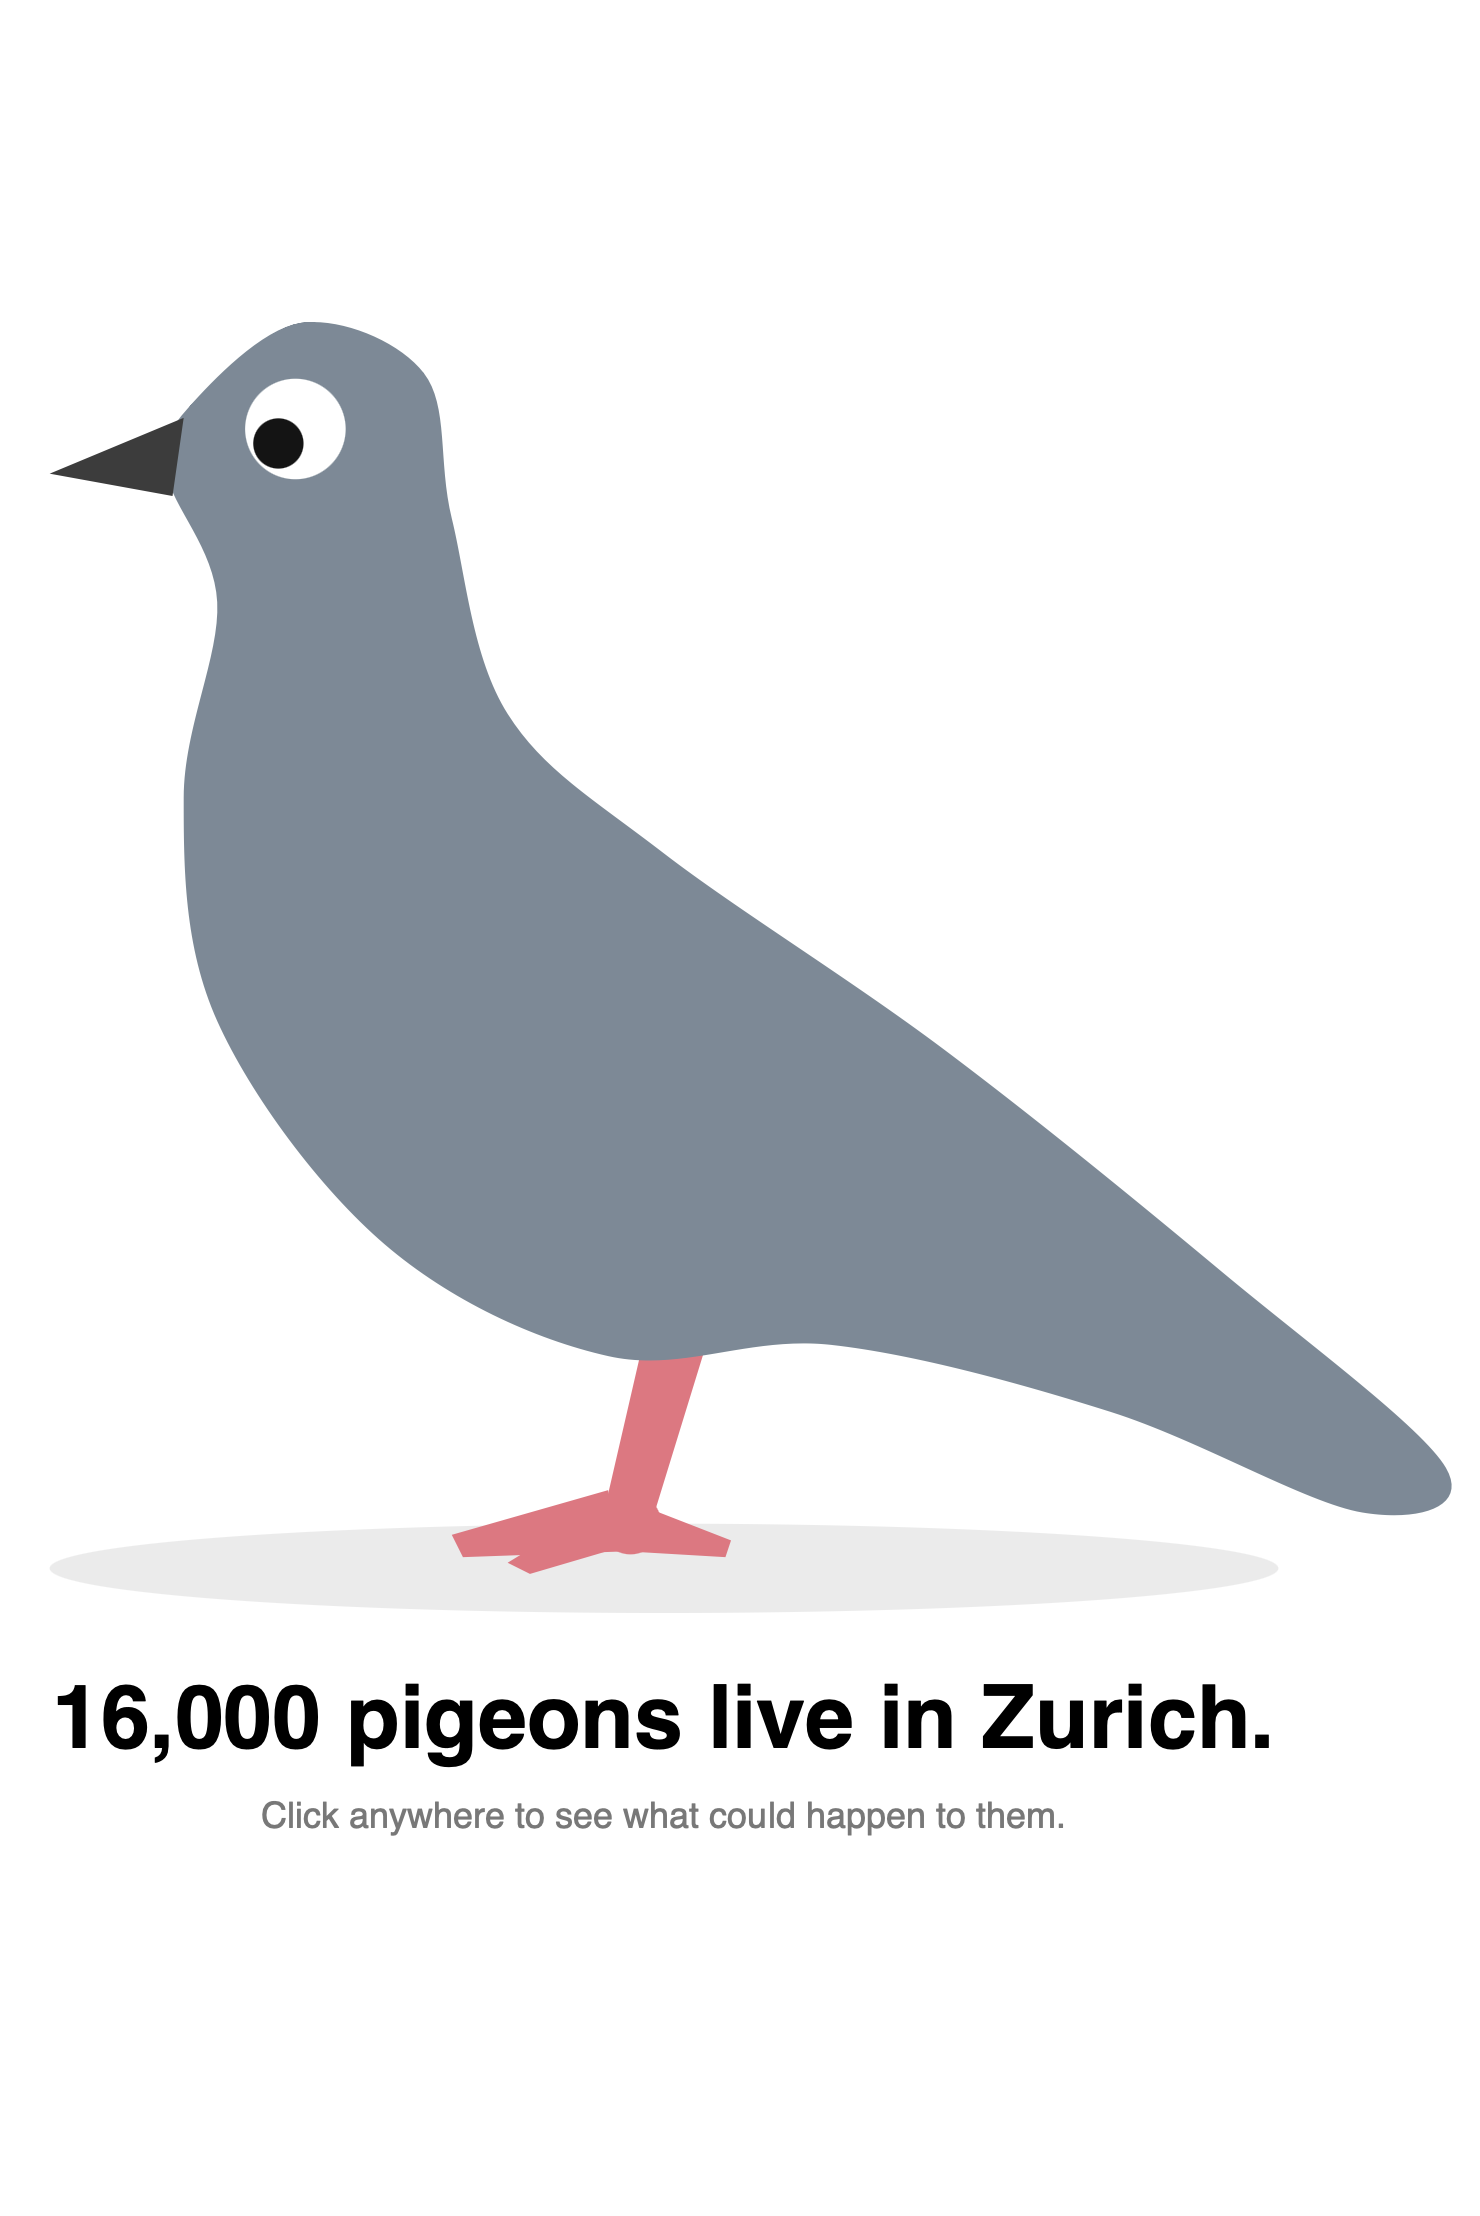
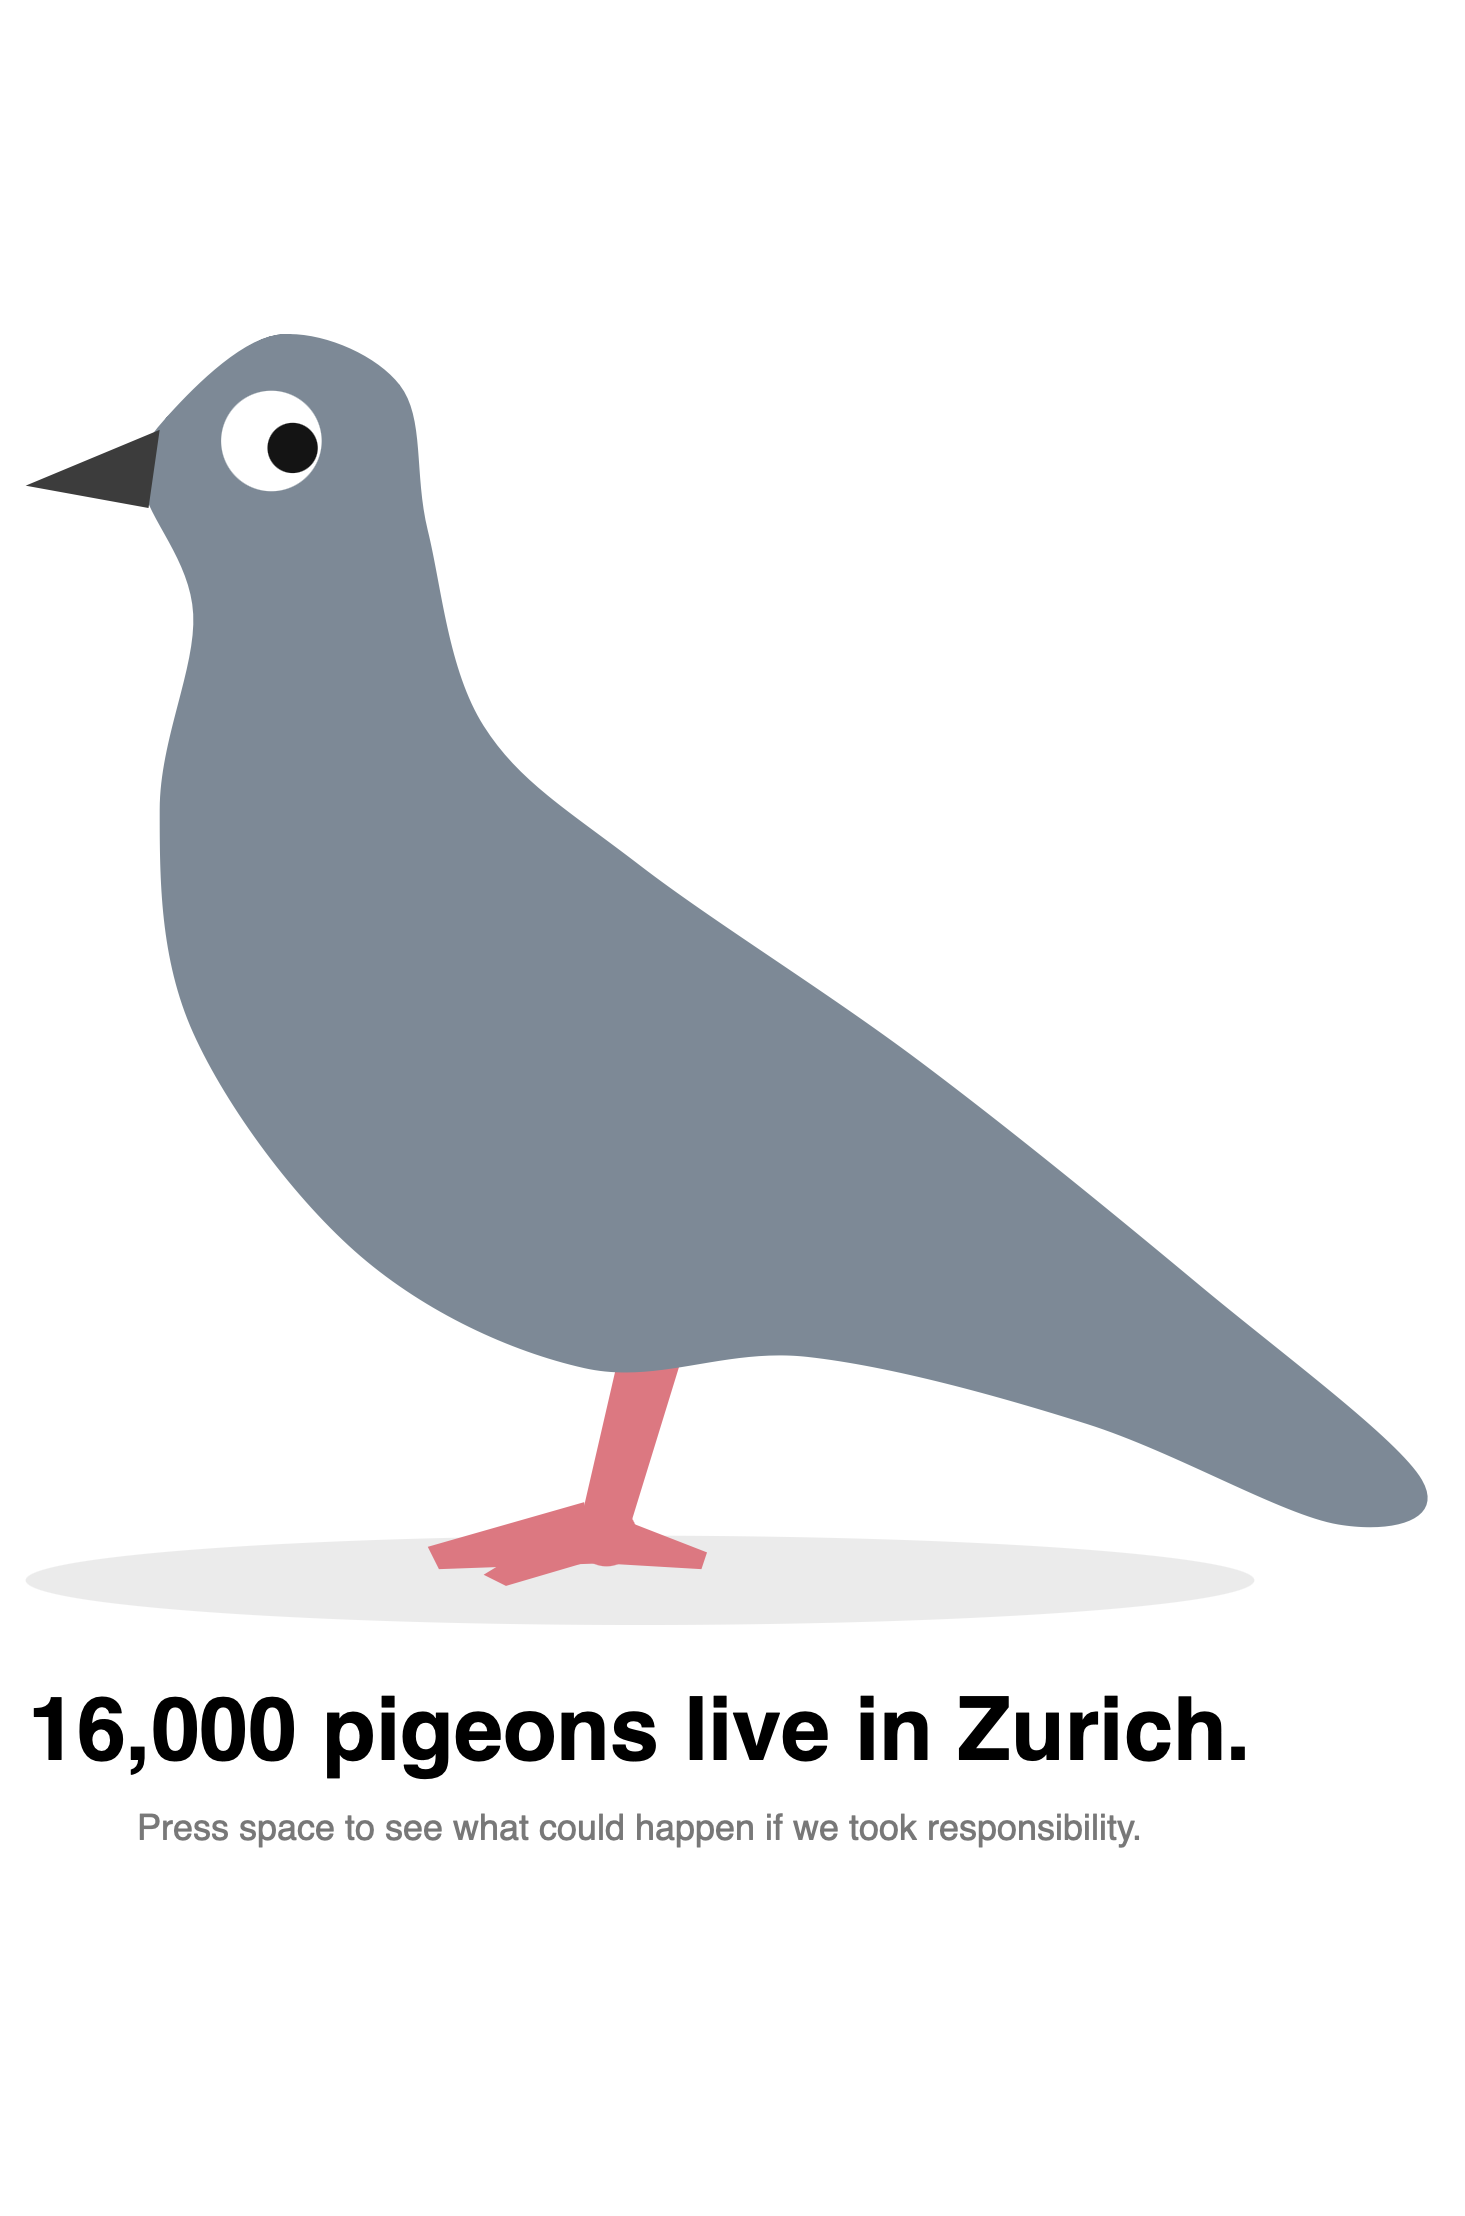
Update

diff --git a/projects/project2/script.js b/projects/project2/script.js
@@ -1,3 +1,5 @@
+p5.disableFriendlyErrors = true;   // schneller, weniger Prüfungen
+
 let table;
 let years = [];
 let yearSlider;
@@ -15,6 +17,9 @@ let spacing = 40;
 let pigeonSize = 1.6;
 let started = false;
 let contentHeight = 760;   // Höhe von Titel bis unterste Taubenreihe (bei den meisten Tauben)
+let fadingOut = false;   // blendet das Intro gerade aus?
+let introFade = 0;       // wie weiss das Intro schon ist (0–255)
+let vizFade = 0;         // wie weiss die Visualisierung noch ist (255–0)
 
 async function setup() {
     createCanvas(windowWidth, windowHeight);
@@ -67,9 +72,25 @@ async function setup() {
 function draw() {
     background(255);
 
-    // Intro: solange noch nicht geklickt wurde, nur das Intro zeichnen
+    // Intro: solange die Leertaste noch nicht gedrückt wurde, nur das Intro zeichnen
     if (!started) {
         drawIntro();
+
+        // Intro langsam weiss ausblenden
+        if (fadingOut) {
+            introFade += 10;
+            fill(255, introFade);
+            rect(0, 0, width, height);
+
+            if (introFade >= 255) {
+                started = true;
+                vizFade = 255;
+                yearSlider.show();
+                scenarioRadio.show();
+                yearSlider.style("opacity", 0);
+                scenarioRadio.style("opacity", 0);
+            }
+        }
         return;
     }
 
@@ -281,13 +302,24 @@ function draw() {
     text("Illustrative model data, based on the estimate of 16,000 city pigeons in Zurich.", leftEdge, height - 20);
 
     textAlign(LEFT);
+
+    // Visualisierung langsam aus dem Weiss einblenden
+    if (vizFade > 0) {
+        fill(255, vizFade);
+        rect(0, 0, width, height);
+        yearSlider.style("opacity", 1 - vizFade / 255);
+        scenarioRadio.style("opacity", 1 - vizFade / 255);
+        vizFade -= 10;
+    } else {
+        yearSlider.style("opacity", 1);
+        scenarioRadio.style("opacity", 1);
+    }
 }
 
-function mousePressed() {
-    if (!started) {
-        started = true;
-        yearSlider.show();
-        scenarioRadio.show();
+function keyPressed() {
+    if (!started && key == " ") {
+        fadingOut = true;
+        return false;
     }
 }
 
@@ -323,7 +355,7 @@ function drawIntro() {
     textStyle(NORMAL);
     textSize(18);
     fill(120);
-    text("Click anywhere to see what could happen to them.", width / 2, cy + 13 * S + 40);
+    text("Press space to see what could happen if we took responsibility.", width / 2, cy + 13 * S + 40);
     textAlign(LEFT);
 }
 
